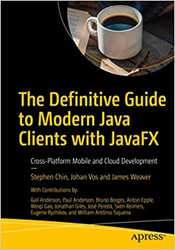
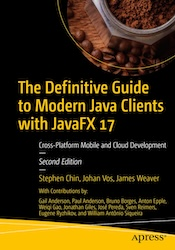
LOTW 20231020 + ASGTeach

diff --git a/links/2023/2023-10/2023-10-20/readme.md b/links/2023/2023-10/2023-10-20/readme.md
@@ -1,45 +1,23 @@
 ## Core
 
-* 
+* JavaFX 21.0.1 and JavaFX 17.0.9 are now available for download from the [Gluon website](https://gluonhq.com/products/javafx) and from Maven Central. "[Enjoy Java on the client!](https://techhub.social/@gluonhq/111255546373474509)".
 
 ## Applications
 
-* **Pedro Duque Vieira** shared more info and a video about [Visual Styles in HERO](https://twitter.com/P_Duke/status/1713901762027905025): "It allows the user to see properties of his CAD project quickly, at a glance. 3 types exist:
-
-- Discrete: properties that have a discrete value
-- Dynamic Properties
-- Graded: for properties that have, for example, a numerical value. In this case the property value will fit in a specific bucket
-
-- Colors are given automatically by HERO and chosen from a color palette. They have been carefully pre-selected to give the highest visual feedback. Visual Styles adapt to the user’s project file and continue to change automatically if the values of properties in the project change.
+* **Pedro Duque Vieira** shared more info and a video about [Visual Styles in HERO](https://twitter.com/P_Duke/status/1713901762027905025): "It allows the user to see properties of his CAD project quickly, at a glance."
+* Nice new [screenshot by **RNArtist**](https://twitter.com/rnartist_app/status/1714315738691903512) showing: "Insight into a random RNA 2D with a size of 1kb and a pairing density of 60%. Bracket notation with colored helices in the lower part. Simple rendering of the 2D plot in the upper part.".
+  * Here you can find [a picture to summarize the new workflow](https://twitter.com/rnartist_app/status/1715295482195349674) that will be in RNArtist 1.1.0.
+  * And he shared a blog post: [Visualize experimental data on your RNA 2D](https://fjossinet.github.io/visualize-experimental-data/).
 
 ## Games
 
-* 
+* [**Almas Baim** shared a video](https://twitter.com/AlmasBaim/status/1658565437053980691) after a "fruitful discussion with game dev students on how to improve the UI. Check out the new health and weapon indicators around the player. Now there is no need to look elsewhere to get this info."
 
 ## Components, Libraries, Tools
 
-* Pedro Duque Vieira
-  @P_Duke
-  True Dark Mode on Windows10
-
-Will be available soon in a new release of FXThemes
-
-Win10 is the most used Windows version (Windows being the most used OS)
-
-This was a pain to implement. Native code is different from win11. On win10 this API is undocumented
-
-## Podcast, Video, Books
-
-*
-
-## Tutorials
-
-*
-
-## Miscellaneous
-
-*
+* True Dark Mode on Windows10 [will be available soon in a new release of FXThemes](https://twitter.com/P_Duke/status/1714655184327168474), a library by **Pedro Duque Vieira**: "Win10 is the most used Windows version (Windows being the most used OS). This was a pain to implement. Native code is different from win11. On win10 this API is undocumented."
 
 ## JFX Central
 
-* 
+* We already mentioned a few times the tutorials by **Edward Nyirenda Jr** in these Links Of The Week. You can [find them now in our tutorial-section](https://www.jfx-central.com/tutorials/coderscratchpad) and we are working with Edward to include some of his tutorials in JFX Central itself! More info later...
+* A [first video by **Dirk Lemmermann**](https://twitter.com/dlemmermann/status/1714227457086124072) showing JFX Central running as an app on iOS.

diff --git a/books/definitiveguide2modernjavaclients/readme.md b/books/definitiveguide2modernjavaclients/readme.md
@@ -1,3 +1,5 @@
+This book was updated in 2021, and based on JavaFX 17.
+
 Build enhanced visual experiences and design and deploy modern, easy-to-maintain, client applications across a variety of platforms. This book will show you how these applications can take advantage of the latest user interface components, 3D technology, and cloud services to create immersive visualizations and allow high-value data manipulation. 
 
 The Definitive Guide to Modern Java Clients with JavaFX is a professional reference for building Java applications for desktop, mobile, and embedded in the Cloud age. It offers end-to-end coverage of the latest features in JavaFX and Java 13. After reading this book, you will be equipped to upgrade legacy client applications, develop cross-platform applications in Java, and build enhanced desktop and mobile native clients.

diff --git a/people/g.anderson/readme.md b/people/g.anderson/readme.md
@@ -1,1 +1,3 @@
-Java Champion, Java/JavaFX Developer, Author, Guitar Player.
+Gail is a Java Champion and a member of the Oracle ACE Program. She is Director of Research and founding member of the Anderson Software Group, a leading provider of training courses in Java, JavaFX, Python, Go, Modern C++, and other programming languages.
+
+Gail enjoys researching and writing about leading-edge Java technologies. Her current passion includes JavaFX with GraalVM for cross-platform mobile applications. She is the co-author of nine textbooks on software programming. Most recently, she is a contributing author to The Definitive Guide to Modern Java Clients with JavaFX 17. Gail has presented at various Java conferences and JUGS including Devoxx, DevNexus, JCrete, and Oracle Code/JavaOne worldwide.

diff --git a/people/p.anderson/readme.md b/people/p.anderson/readme.md
@@ -1,0 +1,1 @@
+Paul is a Java Champion and a member of the Oracle ACE Program. He is an experienced speaker, making the technical aspects of software engineering fun and understandable. He has conducted Technical Sessions and Tutorials at JavaOne, Devoxx, and NetBeans Day conferences in San Francisco, Europe, and Latin America. Paul is also the author of LiveLesson videos on JavaFX Programming and Java Reflection for Pearson Education. He has contributed articles to InformIT and is the co-author of eight textbooks on software programming.

diff --git a/companies/asgteach/readme.md b/companies/asgteach/readme.md
@@ -1,0 +1,1 @@
+Anderson Software Group, Inc. is a California corporation founded by Paul Anderson and Gail Anderson, who both have extensive experience as software professionals and instructors. They have coauthored eight books that have been used extensively throughout industry and in the classroom. Both Gail and Paul are Java Champions and members of the NetBeans Dream Team.
